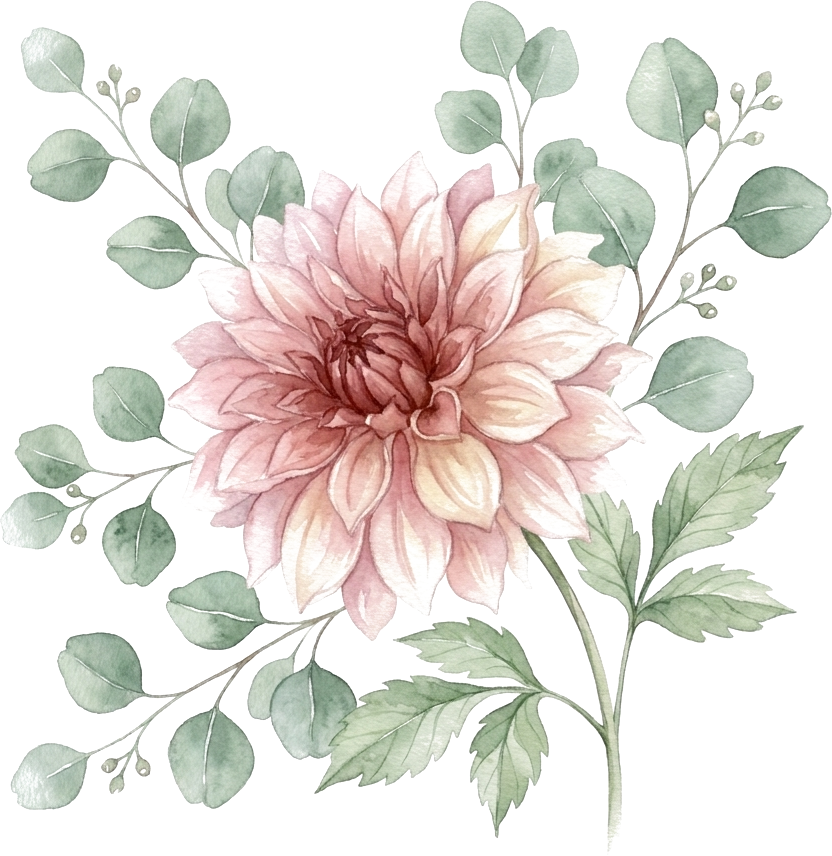
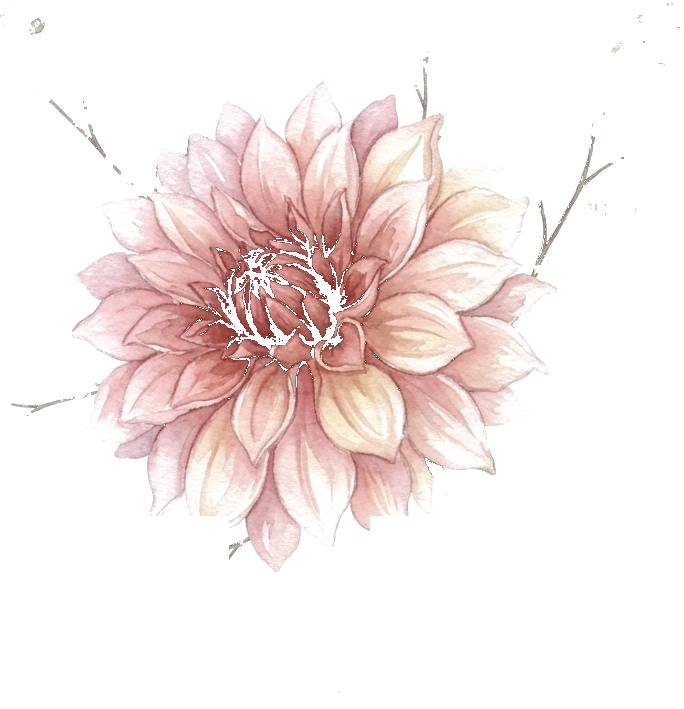
feat(invitation): show only dahlia bloom in close-up without leaves/stem and enlarge display

diff --git a/src/components/InvitationCardModal.tsx b/src/components/InvitationCardModal.tsx
@@ -56,13 +56,14 @@ export const InvitationCardModal: React.FC<InvitationCardModalProps> = ({ isOpen
         {/* Contenuto dell'invito con z-10 */}
         <div className="relative z-10 w-full flex flex-col items-center">
           {/* 
-            Al posto del tatuaggio: Dalia chiara ad acquerello abbastanza grande e luminosa
+            Al posto del tatuaggio: Solo il fiore della dalia chiara in primo piano,
+            senza foglie né gambo, grande e protagonista
           */}
-          <div className="flex justify-center mb-4 sm:mb-5 pointer-events-none select-none">
+          <div className="flex justify-center mb-3 sm:mb-4 pointer-events-none select-none">
             <img
               src="./images/dalia_chiara_invito.png"
-              alt="Dalia chiara ad acquerello"
-              className="w-24 h-24 sm:w-32 sm:h-32 object-contain filter contrast-[1.03] drop-shadow-sm transition-transform hover:scale-105 duration-300"
+              alt="Dalia chiara ad acquerello in primo piano"
+              className="w-32 h-32 sm:w-40 sm:h-40 md:w-44 md:h-44 object-contain filter contrast-[1.03] drop-shadow-sm transition-transform hover:scale-105 duration-300"
               loading="eager"
             />
           </div>
